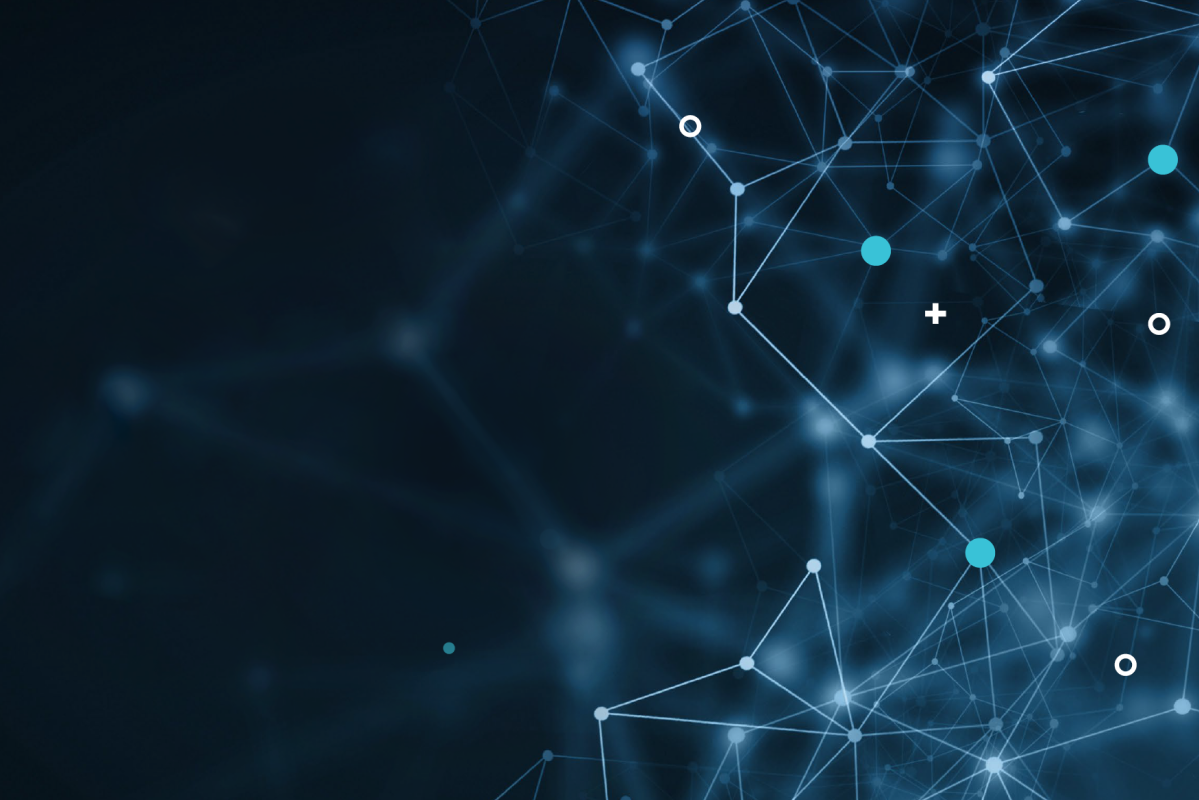
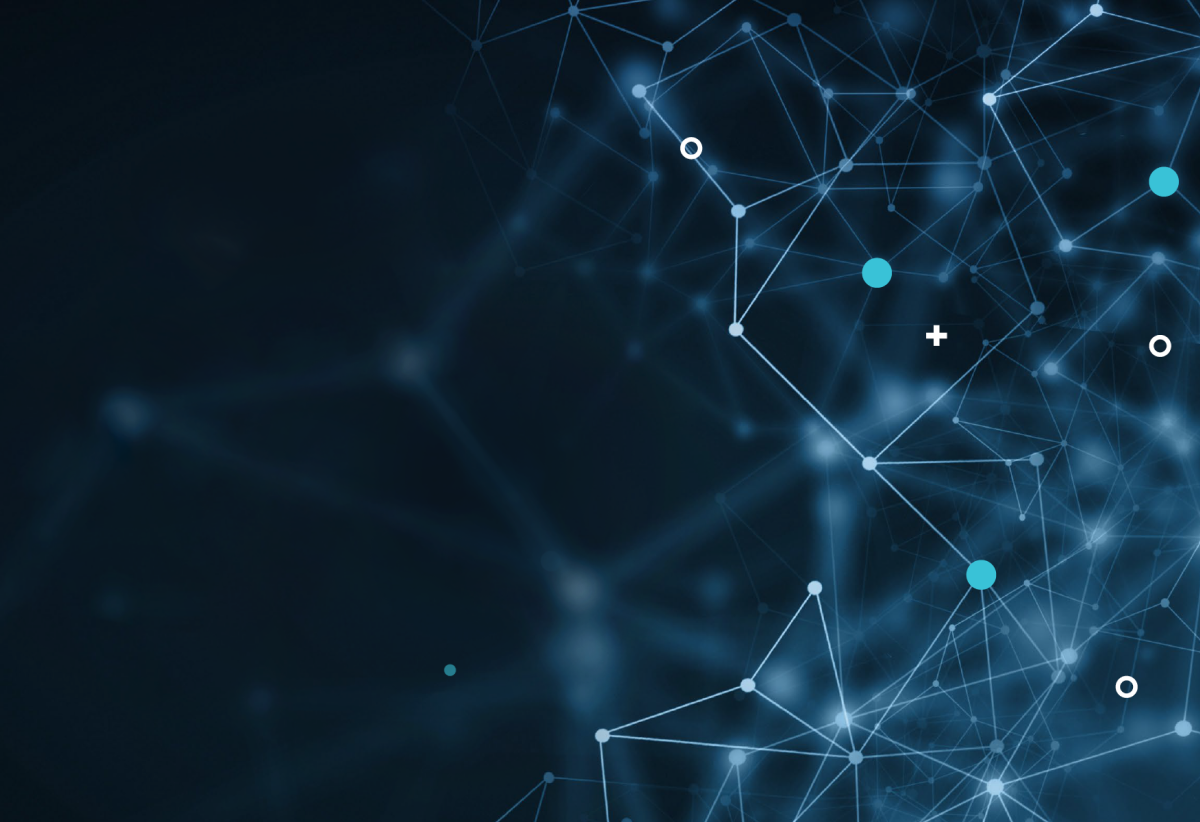
Updates all project files to actual version

diff --git a/index.html b/index.html
@@ -13,59 +13,72 @@
     <title>Document</title>
 </head>
 <body>
-        <!--
-        <header>
-        <nav>
-            <a href="">Project</a>
-        <ul>
-            <li>
-                <a href="">Projects</a>
-            </li>
-            <li>
-                <a href="">About us</a>
-            </li>
-            <li>
-                <a href="">Stories</a>
-            </li>
-            <li>
-                <a href="">Contact</a>
-            </li>
-        </ul>
-        </nav>
-        </header>
-        -->
-        <main>
-        <div class="hero-block">
-            <img src="assets/LOGO_big.svg" id="big-logo" alt="logo of the project">
-            <h1 class="white-text">Your Headline<br>Here</h1>
-            <h2>Lorem, ipsum dolor sit amet consectetur<br>
-                adipisicing elit. Officiis nam aliquam.</h2>
-        </div>
         
+        <header>
+            <!-- <nav class="container"> -->
+                <nav class="container">
+                <div><a class="home" href="">Project</a></div>
+                <div>
+                        <ul class="menu">
+                        <li>
+                            <a href="">Projects</a>
+                        </li>
+                        <li>
+                            <a href="">About us</a>
+                        </li>
+                        <li>
+                            <a href="">Stories</a>
+                        </li>
+                        <li>
+                            <a href="">Contact</a>
+                        </li>
+                    </ul>
+                </div>
+            </nav>
+
+            <div class="hero-block">
+                <img src="assets/LOGO_big.svg" id="big-logo" alt="logo of the project">
+                <h1 class="white-text">Your Headline<br>Here</h1>
+                <h2>Lorem, ipsum dolor sit amet consectetur<br>
+                    adipisicing elit. Officiis nam aliquam.</h2>
+            </div>
+        </header>
+       
+        <main>
             <div class="headline">
                 <h1>This is the Section Headline,<br>
                  Continues to Two Lines</h1>
                 <h2>Lorem ipsum dolor sit amet, consectetur<br>
                     adipiscing elit, sed do eiusmod.</h2>
 
-                <p>
-                    Lorem ipsum dolor sit amet, consectetur adipisicing elit, sed do eiusmod tempor incididunt ut labore et dolore magna
-                aliqua. Ut enim ad minim veniam, quis nostrud exercitation ullamco laboris nisi ut aliquip ex ea commodo consequat. Duis
-                aute irure dolor in reprehenderit in voluptate velit esse cillum dolore eu fugiat nulla pariatur. Excepteur sint
-                occaecat cupidatat non proident, sunt in culpa qui officia deserunt mollit anim id est laborum. Sed ut perspiciatis unde
-                omnis.
-                </p>
-                <p>
-                    Minim veniam, quis nostrud exercitation ullamco laboris 
-                    nisi ut aliquip ex ea commodo consequat. Duis aute  
-                    irure dolor in reprehenderit in voluptate velit esse 
-                    cillum dolore eu fugiat nulla pariatur. Excepteur 
-                    sint occaecat cupidatat non 
-                    proident, sunt in culpa qui officia deserunt mollit anim id 
-                    est laborum.
-                </p>
-                <button class="btn white-text">Read more</button>
+                <div class="container">
+                    <p>
+                        Lorem ipsum dolor sit amet, consectetur adipisicing 
+                        elit, sed do eiusmod tempor incididunt ut labore et 
+                        dolore magna
+                        aliqua. Ut enim ad minim veniam, quis nostrud 
+                        exercitation ullamco laboris nisi ut aliquip ex ea 
+                        commodo consequat. Duis
+                        aute irure dolor in reprehenderit in voluptate velit 
+                        esse cillum dolore eu fugiat nulla pariatur. Excepteur 
+                        sint
+                        occaecat cupidatat non proident, sunt in culpa qui 
+                        officia deserunt mollit anim id est laborum. Sed ut 
+                        perspiciatis unde omnis.
+                    </p>
+                    <p>
+                        Minim veniam, quis nostrud exercitation ullamco laboris 
+                        nisi ut aliquip ex ea commodo consequat. Duis aute 
+                        irure dolor
+                        in reprehenderit in voluptate velit esse cillum dolore 
+                        eu fugiat nulla pariatur. Excepteur sint occaecat 
+                        cupidatat non
+                        proident, sunt in officia deserunt mollit 
+                        anim id est laborum.
+                    </p>
                 </div>
+                <button class="btn white-text">Read more</button>
+            </div>
 
             <section class="learn-more">
                 <div class="video"></div>
@@ -86,16 +99,23 @@
 
             </section>
         </main>
-        <footer>
+        <footer class="grid-container">
             <div class="project-logo">
                 <img src="assets/LOGO_small.svg" alt="logo of the project">
-                <div class="white-text">Project</div>
+                <div class="white-text">
+                    Project
+                </div>
             </div>
             <div class="contacts">
                 <i>123 Street,<br>
                 Anytown, USA 12345</i><br>
+            </div>
+            <div class="e-mail">
                 <a href="" type="email">hello@website.com</a><br>
-                &copy Project. All rights reserved</div>
+            </div>   
+            <div class="copyright">
+                &copy 2021 Project. All rights reserved
+            </div>
         </footer>
 </body>
 </html>

diff --git a/css/header.css b/css/header.css
@@ -1,0 +1,65 @@
+header {
+    height: 822px;
+    position: relative;
+}
+
+.home {
+    font-weight: 600;
+    font-size: 20px;
+    line-height: 16px;
+    letter-spacing: 0.1em;
+}
+
+nav {
+    box-sizing: border-box;
+    color: white;
+    position: absolute;
+    padding: 50px 400px 0 150px;
+    text-transform: uppercase;
+    z-index: 100;
+}
+
+.container {
+    display: flex;
+    justify-content: space-between;
+    width: 100%;
+}
+
+.menu {
+    display: flex;
+    justify-content: space-between;
+    width: 420px;
+    font-weight: normal;
+    font-size: 14px;
+    line-height: 16px;
+    letter-spacing: 0.2em;
+}
+
+/* Hero block */
+
+#big-logo {
+    box-sizing: border-box;
+    display: block;
+    margin: 0 auto;
+}
+
+.hero-block h1 {
+    box-sizing: border-box;
+    margin-top: 20px;
+}
+
+.hero-block h2 {
+    color: #ffffffb2;
+}
+
+.hero-block {
+    background-image: url(../assets/Hero_background.png);
+    background-repeat: no-repeat;
+    margin: 0 auto;
+    padding-top: 274px;
+    width: 100%;
+    height: 100%;
+    position: absolute;
+    top: 0;
+    left: 0;
+}

diff --git a/css/footer.css b/css/footer.css
@@ -1,9 +1,44 @@
 footer {
     background-color: #464547;
     box-sizing: border-box;
-    height: 170px;
-    padding-left: 140px;
+    height: 199px;
+    padding: 37px 148px 75px 153px;
     width: 1200px;
+}
+
+.grid-container {
+    display: grid;
+    grid-template-columns: repeat(7, auto);
+    grid-template-rows: repeat(2, auto);
+}
+
+.grid-container * {
+    justify-self: start;
+}
+
+.project-logo {
+    align-self: start;
+    grid-column: 1/2;
+    grid-row: 1/2;
+    justify-content: start;
+}
+
+.contacts {
+    align-self: start;
+    grid-column: 3/5;
+    grid-row: 1/2;
+}
+
+.e-mail {
+    align-self: end;
+    grid-column: 3/5;
+    grid-row: 2/3;
+}
+
+.copyright {
+    align-self: end;
+    grid-column: 6/8;
+    grid-row: 2/3;
 }
 
 .project-logo {
@@ -21,7 +56,9 @@ footer {
     margin-left: 16px;
 }
 
-.contacts {
+.contacts,
+.copyright,
+footer a:-webkit-any-link {
     color: rgba(255, 255, 255, 0.4);
     font-size: 16px;
     font-style: normal;

diff --git a/css/main.css b/css/main.css
@@ -1,42 +1,9 @@
-/* Hero block */
-
-#big-logo {
-    box-sizing: border-box;
-    display: block;
-    margin: 0 auto;
-}
-
-.hero-block h1 {
-    box-sizing: border-box;
-    margin-top: 20px;
-}
-
-.hero-block h2 {
-    color: #ffffffb2;
-}
-
-.hero-block {
-    background-image: url(../assets/Hero_background.png);
-    height: 526px;
-    margin: 0 auto;
-    padding-top: 274px;
-    width: 1200px;
-}
-
-button {
-    background-color: #55c2d8;
-    display: block;
-    font-family: Oswald Regular;
-    margin: 50px auto;
-    text-transform: uppercase;
-}
-
 /* Headline block */
 
 .headline {
     background-color: #eeeeee;
     box-sizing: border-box;
-    padding: 90px 97px 50px 120px;
+    padding: 90px 143px 50px 150px;
 }
 
 .headline h1 {
@@ -45,6 +12,10 @@ button {
 
 .headline h2 {
     color: #666666;
+}
+
+div.container p {
+    width: 410px;
 }
 
 .headline button {

diff --git a/css/styles.css b/css/styles.css
@@ -138,11 +138,6 @@ button:focus {
     outline: none;
 }
 
-a:-webkit-any-link {
-    color: rgba(255, 255, 255, 0.4);
-    text-decoration: none;
-}
-
 /* My CSS */
 
 body {
@@ -152,14 +147,14 @@ body {
 
 h1,
 h2,
-h3,
-p {
+h3 {
     text-align: center;
     font-style: normal;
 }
 
 h2,
 p,
+nav,
 footer {
     font-family: Source Sans Pro;
 }
@@ -178,15 +173,27 @@ h2 {
 }
 
 p {
+    color: #666666;
     font-size: 16px;
     line-height: 22px;
-    margin-top: 20px;
+    margin-top: 45px;
+    text-align: left;
 }
 
 .white-text {
-    color: #ffffff;
+    color: white;
 }
 
 button {
     cursor: pointer;
+    background-color: #55c2d8;
+    display: block;
+    font-family: Oswald Regular;
+    margin: 50px auto;
+    text-transform: uppercase;
+}
+
+a:-webkit-any-link {
+    text-decoration: none;
+    color: white;
 }
